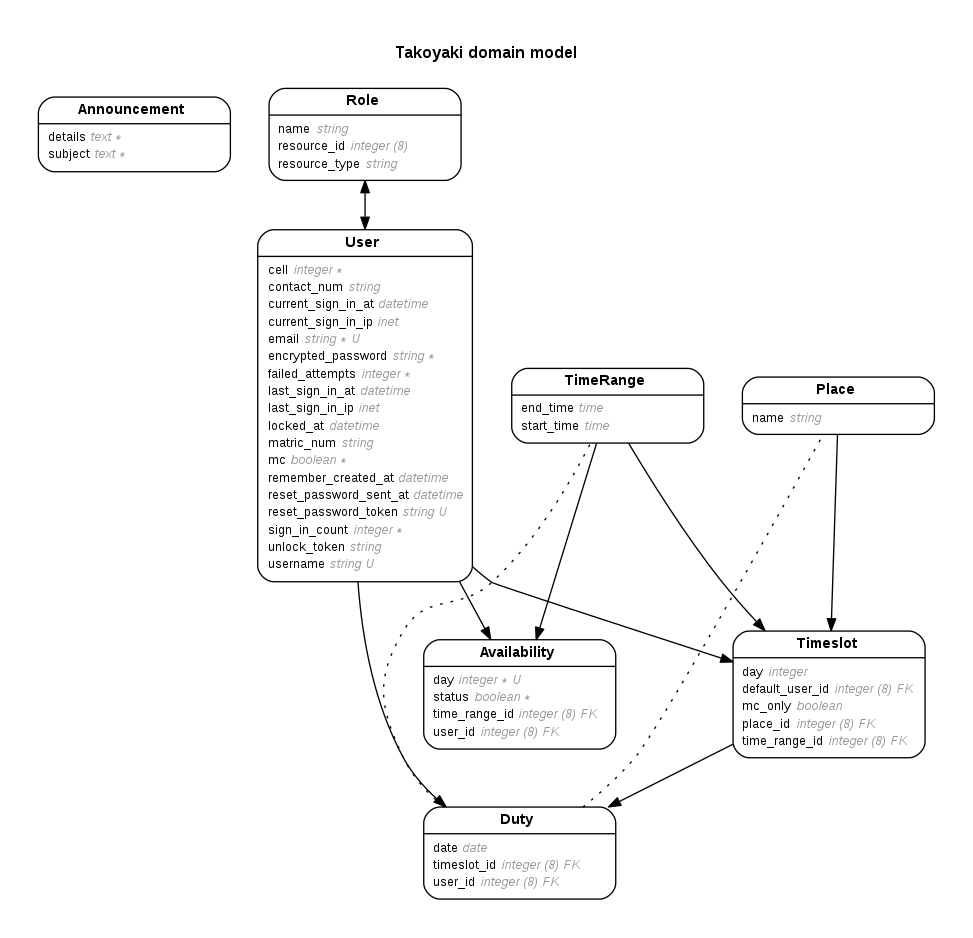
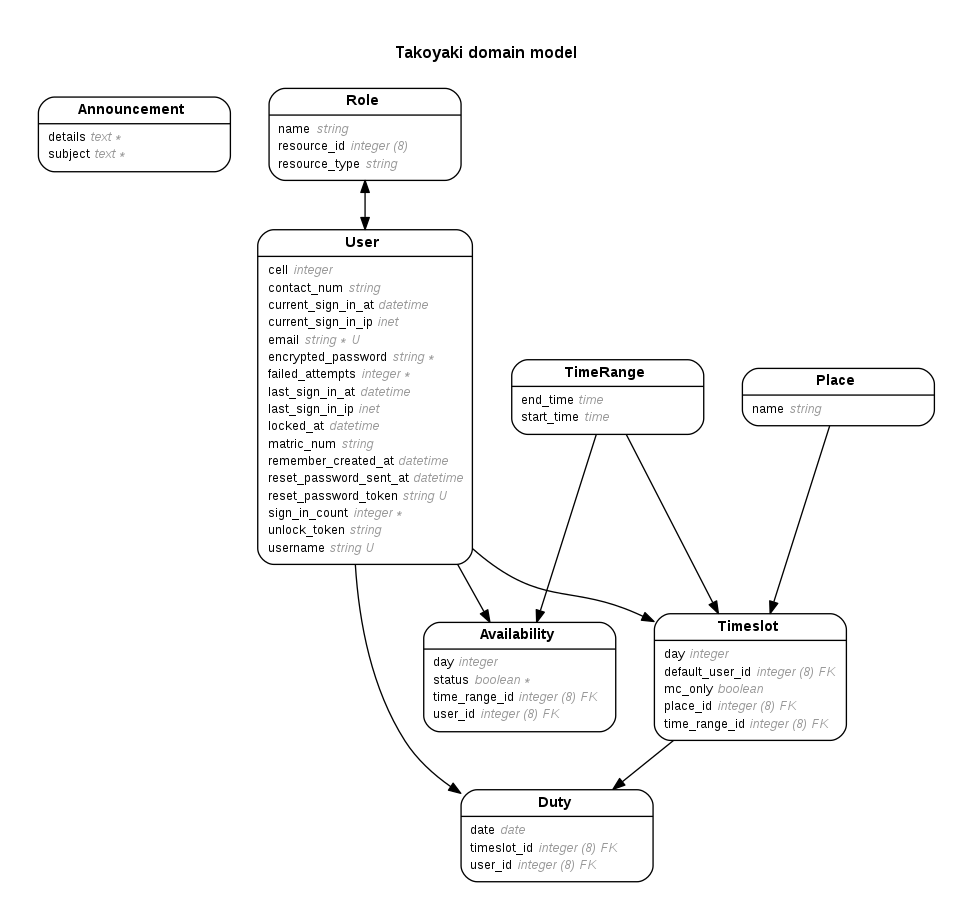
Add Navbar (#30)
* navbar

* navbar

* navbar update

* Fix rubocop offenses

* Navbar update 31/3

* 3/4/2018

* 123

* asd

* dasd

* navbar update 7/4/18

* asd

* Cleanup

* Cleanup again

diff --git a/app/assets/stylesheets/application.scss b/app/assets/stylesheets/application.scss
@@ -21,3 +21,7 @@
 @import 'duties';
 @import 'availabilities';
 @import 'announcements';
+
+body[no-nav] nav {
+  display: none;
+}

diff --git a/db/schema.rb b/db/schema.rb
@@ -83,9 +83,6 @@ ActiveRecord::Schema.define(version: 20180402054815) do
     t.datetime "last_sign_in_at"
     t.inet     "current_sign_in_ip"
     t.inet     "last_sign_in_ip"
-    t.integer  "failed_attempts",        :default=>0, :null=>false
-    t.string   "unlock_token"
-    t.datetime "locked_at"
     t.datetime "created_at",             :null=>false
     t.datetime "updated_at",             :null=>false
     t.string   "username",               :index=>{:name=>"index_users_on_username", :unique=>true}

diff --git a/app/models/user.rb b/app/models/user.rb
@@ -15,9 +15,6 @@
 #  last_sign_in_at        :datetime
 #  current_sign_in_ip     :inet
 #  last_sign_in_ip        :inet
-#  failed_attempts        :integer          default(0), not null
-#  unlock_token           :string
-#  locked_at              :datetime
 #  created_at             :datetime         not null
 #  updated_at             :datetime         not null
 #  username               :string

diff --git a/spec/factories/users.rb b/spec/factories/users.rb
@@ -15,9 +15,6 @@
 #  last_sign_in_at        :datetime
 #  current_sign_in_ip     :inet
 #  last_sign_in_ip        :inet
-#  failed_attempts        :integer          default(0), not null
-#  unlock_token           :string
-#  locked_at              :datetime
 #  created_at             :datetime         not null
 #  updated_at             :datetime         not null
 #  username               :string

diff --git a/spec/models/user_spec.rb b/spec/models/user_spec.rb
@@ -15,9 +15,6 @@
 #  last_sign_in_at        :datetime
 #  current_sign_in_ip     :inet
 #  last_sign_in_ip        :inet
-#  failed_attempts        :integer          default(0), not null
-#  unlock_token           :string
-#  locked_at              :datetime
 #  created_at             :datetime         not null
 #  updated_at             :datetime         not null
 #  username               :string
